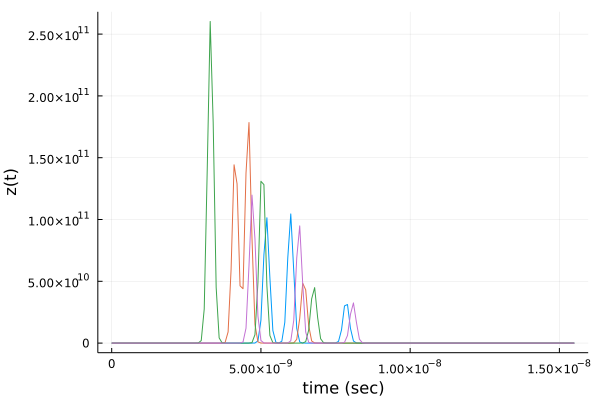
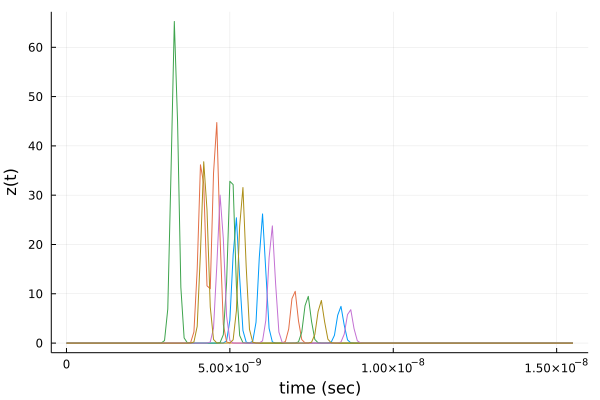
updated scenarioD plots and formulation

diff --git a/docs/src/omniDirectionalLTI/omnidirLTIsource.md b/docs/src/omniDirectionalLTI/omnidirLTIsource.md
@@ -263,52 +263,72 @@ inverse2Dplot([q],r,[z],f)
 * single stationary omnidirectional source
 * multiple stationary omnidirectional receivers
 * multiple stationary ideal point reflectors
-* the source emits an ideal impulse
+* the source emits an impulse
+
+Given the scenario D assumptions, we simulated the geometry of scenario as follows.
+
+![](https://raw.githubusercontent.com/NMSU-ISA/LTVsystems/main/docs/src/assets/scenarioD.png)
 
 ### Forward Modeling
 
-Given the scenario D assumptions with the position of the source $𝐩ₛ$ and the multiple receivers at $\mathbf{p}_{\mathrm{r}^{(i)}}$ where $i = 1,2,…M$ by providing the transmitted signal, $p(t)=δ(t)$ as an ideal impulse and multiple stationary reflectors $\bm{\xi}_n$ where $n = 1,2,…,N$ and $M ≥N$.
-We obtained the closed form expression of the observed signals, $zᵢ(t)$ where $i = 1,2,…M$. as follows.
+For scenario D, given the position of the source $𝐩ₛ$ and the multiple receivers at $\mathbf{p}_{\mathrm{r}^{(i)}}$ where $i = 1,2,…M$ by providing the transmitted signal, $p(t)$ and multiple stationary reflectors $\bm{\xi}_n$ where $n = 1,2,…,N$ and $M ≥N$, we obtained the expression for the reflector function as follows
 
+$f(\bm{\xi}) = \sum\limits_{n=1}^{N}\alpha_n \delta(\bm{\xi} - \bm{\xi}_n)$
+
+The signal observed at position $\bm{\xi}$ and time $t$ due to the source emitting from position $\bm{p}_\mathrm{s}$ is given as follows.
+
+$q(\bm{\xi},t)=\mathrm{A}\left(\frac{\|\bm{\xi}-\bm{p}_\mathrm{s}\|}
+{\mathrm{c}}\right) p\left(t-\frac{\|\bm{\xi}-\bm{p}_\mathrm{s}\|}{\mathrm{c}}\right)$
+
+Mathematically, we defined the reflection due to the source as follows.
+
+$r(\bm{\xi},t) = \sum\limits_{n=1}^{N}\alpha_n \delta(\bm{\xi} - \bm{\xi}_n)
+\mathrm{A}\left(\frac{\|\bm{\xi}-\bm{p}_\mathrm{s}\|}
+{\mathrm{c}}\right) p\left(t-\frac{\|\bm{\xi}-\bm{p}_\mathrm{s}\|}{\mathrm{c}}\right)$
+
+Now the signal observed at $\bm{p}_\mathrm{r}$ due to the reflection from the position $\bm{\xi}$ is given as follows.
+
+$\psi(\bm{\xi},t) = \mathrm{A}\left(\frac{\|\mathbf{p}_{\mathrm{r}^{(i)}}-\bm{\xi}\|}{\mathrm{c}}\right) r\left(\bm{\xi},t-\frac{\|\mathbf{p}_{\mathrm{r}^{(i)}}-\bm{\xi}\|}{\mathrm{c}}\right)$
+
+Finally, we obtained the closed form expression of the observed signals, $zᵢ(t)$ where $i = 1,2,…M$. as follows.
 
 $zᵢ(t) = \sum\limits_{n=1}^{N} \alpha_n \mathrm{A}\left(\frac{\|\mathbf{p}_{\mathrm{r}^{(i)}}-\bm{\xi}_n\|}{\mathrm{c}}\right)
 \mathrm{A}\left(\frac{\|\bm{\xi}_n-\bm{p}_\mathrm{s}\|}{\mathrm{c}}\right)
-δ\left(t-\frac{\|\mathbf{p}_{\mathrm{r}^{(i)}}-\bm{\xi}_n\|+\|\bm{\xi}_n-\bm{p}_\mathrm{s}\|}{\mathrm{c}}\right)$
+p\left(t-\frac{\|\mathbf{p}_{\mathrm{r}^{(i)}}-\bm{\xi}_n\|+\|\bm{\xi}_n-\bm{p}_\mathrm{s}\|}{\mathrm{c}}\right)$
 
 
-We can simulate the scenario and plot signal at the receiver as follows.
+We plot the signal at the receivers as follows.
 
 ```julia
-using ISA, LTVsystems
+using LTVsystems
 using Plots
 𝐩ₛ =  [0.0, 0.0]
 𝐩ᵣ₁ =  [-0.3, 0.0]
 𝐩ᵣ₂ =  [0.0, 0.3]
 𝐩ᵣ₃ =  [0.3, 0.0]
 𝐩ᵣ₄ =  [0.0, -0.3]
-p(t) = δ(t,1.0e-10)
+𝐩ᵣ₅ =  [0.0, 0.0]
+p(t) = δn(t,1.0e-10)
 q = LTIsourceO(𝐩ₛ, p)
 α₁ = 0.7; 𝛏₁ = [0.4,0.7]
-R₁ = LTIsourceO(𝛏₁, t->α₁*q(𝛏₁,t))
 α₂ = 0.5; 𝛏₂ = [0.6,0.2]
-R₂ = LTIsourceO(𝛏₂, t->α₂*q(𝛏₂,t))
-α₃ = 0.4; 𝛏₃ = [0.6,0.9]
-R₃ = LTIsourceO(𝛏₃, t->α₃*q(𝛏₃,t))
-z₁ = LTIreceiverO([R₁,R₂,R₃],𝐩ᵣ₁)
-z₂ = LTIreceiverO([R₁,R₂,R₃],𝐩ᵣ₂)
-z₃ = LTIreceiverO([R₁,R₂,R₃],𝐩ᵣ₃)
-z₄ = LTIreceiverO([R₁,R₂,R₃],𝐩ᵣ₄)
+α₃ = 0.4; 𝛏₃ = [0.6,1.0]
+r = pointReflector([𝛏₁,𝛏₂,𝛏₃],[α₁,α₂,α₃],[q])
+z₁ = LTIreceiverO(r,𝐩ᵣ₁); z₂ = LTIreceiverO(r,𝐩ᵣ₂)
+z₃ = LTIreceiverO(r,𝐩ᵣ₃); z₄ = LTIreceiverO(r,𝐩ᵣ₄)
+z₅ = LTIreceiverO(r,𝐩ᵣ₅)
 t = collect(0.0:1.0e-10:15.5e-9)
 p1 = plot( t, z₁(t), xlab="time (sec)", ylab="z(t)", legend=:false)
 plot!(p1,t, z₂(t))
 plot!(p1,t, z₃(t))
 plot!(p1,t, z₄(t))
+plot!(p1,t, z₅(t))
 ```
 ![](https://raw.githubusercontent.com/NMSU-ISA/LTVsystems/main/docs/src/assets/scenarioD_signal.png)
 
 ### Inverse Modeling
 
-Given the scenario D assumptions, we obtained the received signals, $zᵢ(t)$ where $i=1,2,…M$. Now we can estimate the reflector function as follows.
+Given the scenario D assumptions, we obtained the received signals, $zᵢ(t)$ where $i=1,2,…M$. Now we can estimate the reflector function by considering the transmitted signal $p(t)=δ(t)$ as follows.
 
 $\hat{f}(\bm{\xi}) = \left(\prod\limits_{i=1}^{M}fᵢ(\bm{\xi})\right)^{\frac{1}{M}}$, where
 
@@ -318,64 +338,40 @@ $fᵢ(\bm{\xi}) = \dfrac{zᵢ\left(\frac{\|\mathbf{p}_{\mathrm{r}^{(i)}}-    \bm
 \mathrm{A}(\frac{\|\mathbf{p}_{\mathrm{r}^{(i)}}-\bm{\xi}\|}{\mathrm{c}})}$
 
 ```julia
-using ISA, LTVsystems
-using Plots
+using LTVsystems
 𝐩ₛ =  [0.0, 0.0]
 𝐩ᵣ₁ =  [-0.3, 0.0]
 𝐩ᵣ₂ =  [0.0, 0.3]
 𝐩ᵣ₃ =  [0.3, 0.0]
 𝐩ᵣ₄ =  [0.0, -0.3]
-p(t) = δ(t,1.0e-10)
+𝐩ᵣ₅ =  [0.0, 0.0]
+p(t) = δn(t,1.0e-10)
 q = LTIsourceO(𝐩ₛ, p)
 α₁ = 0.7; 𝛏₁ = [0.4,0.7]
-R₁ = LTIsourceO(𝛏₁, t->α₁*q(𝛏₁,t))
 α₂ = 0.5; 𝛏₂ = [0.6,0.2]
-R₂ = LTIsourceO(𝛏₂, t->α₂*q(𝛏₂,t))
-α₃ = 0.4; 𝛏₃ = [0.6,0.9]
-R₃ = LTIsourceO(𝛏₃, t->α₃*q(𝛏₃,t))
-z₁ = LTIreceiverO([R₁,R₂,R₃],𝐩ᵣ₁)
-z₂ = LTIreceiverO([R₁,R₂,R₃],𝐩ᵣ₂)
-z₃ = LTIreceiverO([R₁,R₂,R₃],𝐩ᵣ₃)
-z₄ = LTIreceiverO([R₁,R₂,R₃],𝐩ᵣ₄)
-a₁(ξ::Vector{Float64}) = A(distBetween(ξ,𝐩ₛ)./lightSpeed).*A(distBetween(𝐩ᵣ₁,ξ)./lightSpeed)
-a₂(ξ::Vector{Float64}) = A(distBetween(ξ,𝐩ₛ)./lightSpeed).*A(distBetween(𝐩ᵣ₂,ξ)./lightSpeed)
-a₃(ξ::Vector{Float64}) = A(distBetween(ξ,𝐩ₛ)./lightSpeed).*A(distBetween(𝐩ᵣ₃,ξ)./lightSpeed)
-a₄(ξ::Vector{Float64}) = A(distBetween(ξ,𝐩ₛ)./lightSpeed).*A(distBetween(𝐩ᵣ₄,ξ)./lightSpeed)
-f₁(ξ::Vector{Float64})=(z₁((distBetween(ξ,𝐩ₛ) .+ distBetween(𝐩ᵣ₁,ξ))./lightSpeed))./(a₁(ξ::Vector{Float64}))
-f₂(ξ::Vector{Float64})=(z₂((distBetween(ξ,𝐩ₛ) .+ distBetween(𝐩ᵣ₂,ξ))./lightSpeed))./(a₂(ξ::Vector{Float64}))
-f₃(ξ::Vector{Float64})=(z₃((distBetween(ξ,𝐩ₛ) .+ distBetween(𝐩ᵣ₃,ξ))./lightSpeed))./(a₃(ξ::Vector{Float64}))
-f₄(ξ::Vector{Float64})=(z₄((distBetween(ξ,𝐩ₛ) .+ distBetween(𝐩ᵣ₄,ξ))./lightSpeed))./(a₄(ξ::Vector{Float64}))
-
-f(ξ::Vector{Float64})=f₁(ξ::Vector{Float64}).+f₂(ξ::Vector{Float64})
-                      .+f₃(ξ::Vector{Float64}).+f₄(ξ::Vector{Float64})
-Δpos = 0.01
-x_range = collect(-3:Δpos:3)
-y_range = collect(-2:Δpos:2)
-xyGrid = [[x, y] for x in x_range, y in y_range]
-val = [f(𝐮) for 𝐮 ∈ xyGrid]
-p2 = plot(x_range,y_range,transpose(val),st=:surface,camera=(0,90),
-       aspect_ratio=:equal,legend=true,zticks=false,
-       bg = RGB(0.1,0.1,0.1))
-scatter!(p2,[𝐩ₛ[1]], [𝐩ₛ[2]],markersize = 6.5,color = :green,
-         marker=:pentagon, label='s')
-scatter!(p2,[𝐩ᵣ₁[1]], [𝐩ᵣ₁[2]],markersize = 5.5,color = :blue,   
-         marker=:square, label='r')
-scatter!(p2,[𝐩ᵣ₂[1]], [𝐩ᵣ₂[2]],markersize = 5.5,color = :blue,
-        marker=:square, label='r')
-scatter!(p2,[𝐩ᵣ₃[1]], [𝐩ᵣ₃[2]],markersize = 5.5,color = :blue,
-        marker=:square, label='r')
-scatter!(p2,[𝐩ᵣ₄[1]], [𝐩ᵣ₄[2]],markersize = 5.5,color = :blue,
-        marker=:square, label='r')
-scatter!(p2,[𝛏₁[1]],[𝛏₁[2]],markersize = 8.5,color = :red,
-         marker=:star8, label='t')
-scatter!(p2,[𝛏₂[1]],[𝛏₂[2]],markersize = 8.5,color = :red,
-         marker=:star8, label='t')
-scatter!(p2,[𝛏₃[1]],[𝛏₃[2]],markersize = 8.5,color = :red,
-        marker=:star8, label='t')
-f_new(ξ::Vector{Float64})=(f₁(ξ::Vector{Float64}).*f₂(ξ::Vector{Float64}).*f₃(ξ::Vector{Float64}).*f₄(ξ::Vector{Float64}))^(1/3)
-val1 = [f_new(𝐮) for 𝐮 ∈ xyGrid]
-p3 = plot(x_range,y_range,transpose(val1),st=:surface,
-      camera=(0,90),aspect_ratio=:equal,legend=true,zticks=false,bg = RGB(0.1, 0.1, 0.1))
+α₃ = 0.4; 𝛏₃ = [0.6,1.0]
+r = pointReflector([𝛏₁,𝛏₂,𝛏₃],[α₁,α₂,α₃],[q])
+z₁ = LTIreceiverO(r,𝐩ᵣ₁); z₂ = LTIreceiverO(r,𝐩ᵣ₂)
+z₃ = LTIreceiverO(r,𝐩ᵣ₃); z₄ = LTIreceiverO(r,𝐩ᵣ₄)
+z₅ = LTIreceiverO(r,𝐩ᵣ₅)
+f₁(ξ::Vector{Float64})=(z₁((norm(ξ-𝐩ₛ) .+ norm(𝐩ᵣ₁-ξ))./c))./
+                       A(norm(ξ-𝐩ₛ)./c).*A(norm(𝐩ᵣ₁-ξ)./c)
+f₂(ξ::Vector{Float64})=(z₂((norm(ξ-𝐩ₛ) .+ norm(𝐩ᵣ₂-ξ))./c))./
+                       A(norm(ξ-𝐩ₛ)./c).*A(norm(𝐩ᵣ₂-ξ)./c)
+f₃(ξ::Vector{Float64})=(z₃((norm(ξ-𝐩ₛ) .+ norm(𝐩ᵣ₃-ξ))./c))./
+                       A(norm(ξ-𝐩ₛ)./c).*A(norm(𝐩ᵣ₃-ξ)./c)
+f₄(ξ::Vector{Float64})=(z₄((norm(ξ-𝐩ₛ) .+ norm(𝐩ᵣ₄-ξ))./c))./
+                       A(norm(ξ-𝐩ₛ)./c).*A(norm(𝐩ᵣ₄-ξ)./c)
+f₅(ξ::Vector{Float64})=(z₅((norm(ξ-𝐩ₛ) .+ norm(𝐩ᵣ₅-ξ))./c))./
+                       A(norm(ξ-𝐩ₛ)./c).*A(norm(𝐩ᵣ₅-ξ)./c)
+f(ξ::Vector{Float64})=f₁(ξ::Vector{Float64}).+f₂(ξ::Vector{Float64}).+
+                      f₃(ξ::Vector{Float64}).+f₄(ξ::Vector{Float64}).+f₅(ξ::Vector{Float64})
+inverse2Dplot([q],r,[z₁,z₂,z₃,z₄,z₅],f;x_min = -3.0,x_max = 3.0,
+             y_min = -2.0,y_max = 2.0)
+f_new(ξ::Vector{Float64})=(f₁(ξ::Vector{Float64}).*f₂(ξ::Vector{Float64}).*
+                          f₃(ξ::Vector{Float64}).*f₄(ξ::Vector{Float64}).*f₅(ξ::Vector{Float64}))^(1/3)
+inverse2Dplot([q],r,[z₁,z₂,z₃,z₄,z₅],f_new;x_min = -3.0,x_max = 3.0,
+             y_min = -2.0,y_max = 2.0)
 ```
 ![](https://raw.githubusercontent.com/NMSU-ISA/LTVsystems/main/docs/src/assets/scenarioD_simulation.png)
 
